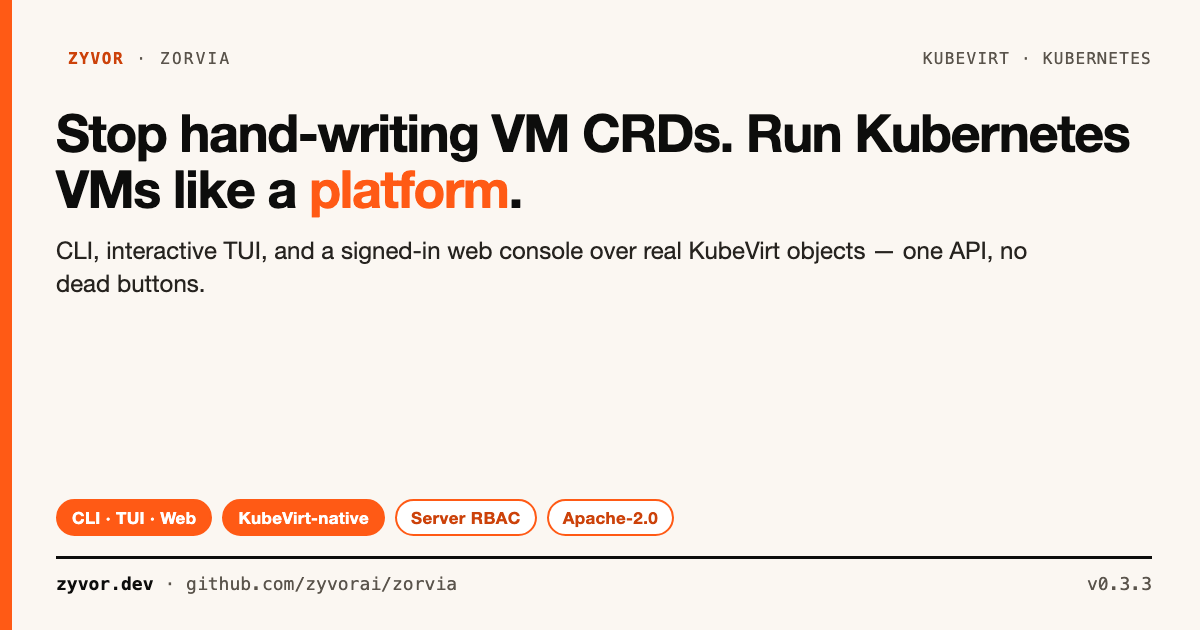
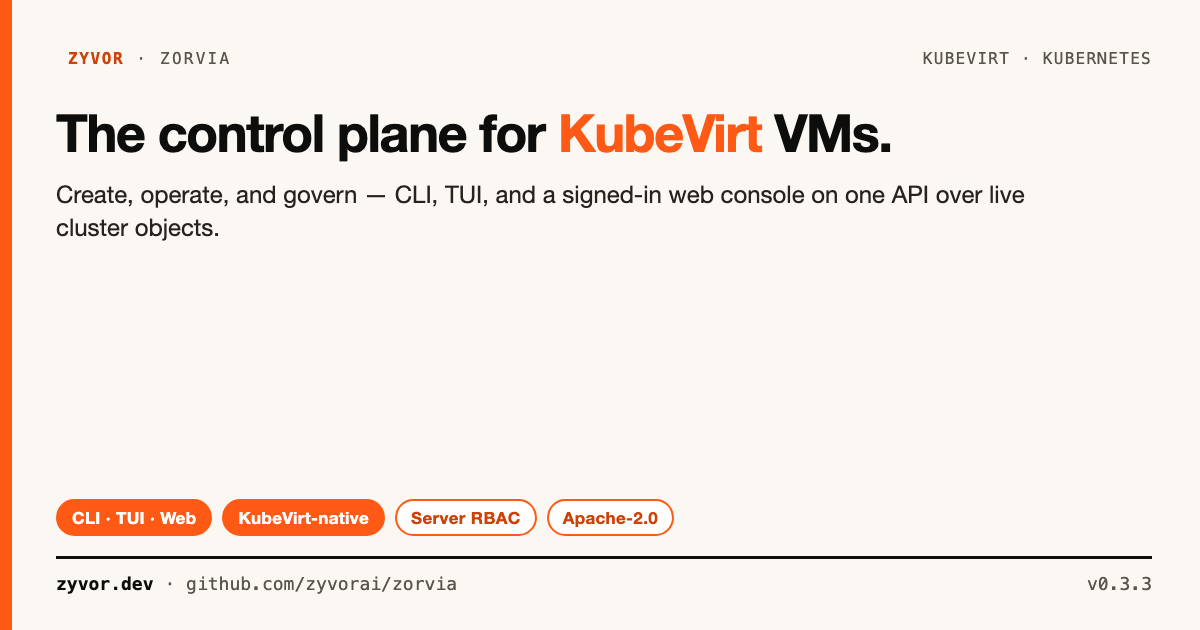
docs: refresh Zorvia tagline to KubeVirt control plane
Replace the YAML/CRD rant with a sharper product line across README, social cards, and the docs site hero.

Changed region(s): [[0.0308, 0.181, 0.9558, 0.4825]]

diff --git a/website/src/pages/index.tsx b/website/src/pages/index.tsx
@@ -15,17 +15,17 @@ function HomepageHeader() {
       <div className="container">
         <div className={clsx(styles.heroText, 'text--center')}>
           <Heading as="h1" className="hero__title">
-            Run Kubernetes VMs
+            The control plane
             <br />
-            like a platform.
+            for KubeVirt VMs.
           </Heading>
           <p className="hero__subtitle">
-            Every KubeVirt shop ends up with the same pile of one-off
-            scripts for create, snapshot, migrate, backup, and access
-            control. Zorvia replaces that pile with one real backend — CLI,
-            interactive TUI, and a signed-in web console, all driving the
-            same API, all wired to real Kubernetes objects underneath. No
-            fake dashboards, no dead buttons.
+            Create, operate, and govern Kubernetes VMs end to end — CLI,
+            interactive TUI, and a signed-in web console on one API.
+            Templates and profiles to ship, hotplug and live migrate to run,
+            console/VNC/SSH to reach the guest, RBAC and quotas to stay safe,
+            audit export to prove who did what. Every action hits live
+            cluster objects.
           </p>
           <div className={styles.buttons}>
             <Link
@@ -63,20 +63,18 @@ function ProblemStatement() {
         <div className="row">
           <div className="col col--8 col--offset-2 text--center">
             <Heading as="h2" className={styles.sectionHeading}>
-              Stop hand-writing VM CRDs
+              KubeVirt runs the VMs. Zorvia runs the platform.
             </Heading>
             <p>
               KubeVirt gives you the primitives — VirtualMachine,
-              VirtualMachineInstance, DataVolume — but not an operator
-              experience. Teams end up writing their own scripts for the
-              same handful of operations, over and over, with no shared
-              backend and no consistent access control.
+              VirtualMachineInstance, DataVolume. Zorvia gives you the
+              operator surface: shared auth, day-2 lifecycle, guest access,
+              guardrails, and audit on top of those same objects.
             </p>
             <p>
-              Zorvia is that backend: one real API behind the CLI, the
-              interactive TUI, and the web console, all reading and
-              writing real Kubernetes objects — not a parallel state store
-              that can drift from the cluster.
+              One real API behind the CLI, the interactive TUI, and the web
+              console — reading and writing live cluster state, not a
+              parallel store that can drift from the cluster.
             </p>
           </div>
         </div>

diff --git a/docs/social/zorvia-social-card.html b/docs/social/zorvia-social-card.html
@@ -93,13 +93,13 @@
     <span class="r">KubeVirt VM platform</span>
   </div>
 
-  <h1>One real backend. CLI, TUI, and web — over <em>actual</em> Kubernetes VMs.</h1>
-  <p class="sub">Create, day-2 ops, guest access, guardrails, and audit — without the YAML pile or dead dashboards.</p>
+  <h1>Create. Operate. Govern. One control plane for <em>KubeVirt</em>.</h1>
+  <p class="sub">Templates to audit trail — CLI, TUI, and a signed-in console driving the same API over live cluster objects.</p>
 
   <div class="flow">
     <div class="step k"><span class="lane">CREATE</span><span class="n">1</span>
       <h3>Templates &amp; profiles</h3>
-      <p>43 OS templates and workload profiles size VMs without hand-written CRDs.</p></div>
+      <p>43 OS templates and workload profiles size and ship VMs in one shot.</p></div>
     <div class="step a"><span class="lane">DAY-2</span><span class="n">2</span>
       <h3>Hotplug &amp; migrate</h3>
       <p>CPU/memory/disk/NIC hotplug, live migration, snapshots, and disk resize — for real.</p></div>

diff --git a/docs/social/zorvia-share-card.html b/docs/social/zorvia-share-card.html
@@ -62,8 +62,8 @@
     <span class="r">KubeVirt &middot; Kubernetes</span>
   </div>
 
-  <h1>Stop hand-writing VM CRDs. Run Kubernetes VMs like a <em>platform</em>.</h1>
-  <p class="sub">CLI, interactive TUI, and a signed-in web console over real KubeVirt objects — one API, no dead buttons.</p>
+  <h1>The control plane for <em>KubeVirt</em> VMs.</h1>
+  <p class="sub">Create, operate, and govern — CLI, TUI, and a signed-in web console on one API over live cluster objects.</p>
 
   <div class="chips">
     <span class="chip">CLI · TUI · Web</span>

diff --git a/website/docusaurus.config.ts b/website/docusaurus.config.ts
@@ -4,7 +4,7 @@ import type * as Preset from '@docusaurus/preset-classic';
 
 const config: Config = {
   title: 'Zorvia',
-  tagline: 'Run Kubernetes VMs like a platform, not a YAML pile — CLI, TUI, and web console over real KubeVirt objects.',
+  tagline: 'The control plane for KubeVirt VMs — create, operate, and govern from CLI, TUI, and web.',
   favicon: 'img/favicon.svg',
 
   future: {

diff --git a/README.md b/README.md
@@ -8,9 +8,9 @@
 
 ![Zorvia — KubeVirt VM platform](docs/social/zorvia-share-card.png)
 
-**Stop hand-writing VM CRDs. Run Kubernetes VMs like a platform, not a YAML pile.**
+**The control plane for KubeVirt VMs.**
 
-Every KubeVirt shop ends up with the same pile of one-off scripts for create, snapshot, migrate, backup, and access control. Zorvia replaces that pile with one real backend — CLI, interactive TUI, and a signed-in web console — all driving the same API over real Kubernetes objects. No fake dashboards, no dead buttons.
+Zorvia is how you create, operate, and govern Kubernetes VMs end to end — CLI, interactive TUI, and a signed-in web console on one API. Templates and profiles to ship, hotplug and live migrate to run, console/VNC/SSH to reach the guest, RBAC and quotas to stay safe, audit export to prove who did what. Every action hits live cluster objects.
 
 [Try it now](#quick-start) · [Talk to sales](mailto:sales@zyvor.dev) · [Star on GitHub](https://github.com/zyvorai/zorvia) · [Docs](https://zyvorai.github.io/zorvia/) · [Changelog](CHANGELOG.md)
 
@@ -98,19 +98,15 @@ open https://<HOST>:30152/app
 
 ## Why teams pick Zorvia
 
-Running VMs on KubeVirt works — *managing* them at scale is where teams get
-stuck. You end up maintaining a spreadsheet of hand-written `VirtualMachine`
-YAML, a Slack thread for "who can restart prod-db," a cron job that may or
-may not still be doing backups, and a dashboard nobody trusts because half
-its buttons don't actually do anything.
+KubeVirt is excellent at running VMs. The missing piece is the control plane
+around them: who can create what, how you hotplug and migrate without
+downtime, how you reach the guest, and how you prove who did what.
 
-Zorvia is what that stack should have been from day one: **one real backend**
-behind a CLI, a TUI, and a web console, all driving actual Kubernetes objects
-— `ResourceQuota`, `NetworkPolicy`, `VirtualMachineSnapshot`, real Node
-capacity, real KubeVirt migration phases. If a page shows a number, that
-number came from the cluster. If a button says it does something, it does
-it. That discipline is why the platform surface below can grow every release
-without turning into the pile of dead mockups it replaced.
+Zorvia is that control plane — **one real backend** behind a CLI, a TUI, and
+a web console, all driving actual Kubernetes objects (`ResourceQuota`,
+`NetworkPolicy`, `VirtualMachineSnapshot`, real Node capacity, real KubeVirt
+migration phases). If a page shows a number, it came from the cluster. If a
+button says it does something, it does it.
 
 Try it in five minutes with the quickstart below, or [talk to us](#get-involved)
 about running it in production.
@@ -119,7 +115,7 @@ about running it in production.
 
 | Need | Zorvia |
 |------|--------|
-| Skip hand-written VM CRDs | **43** named OS templates |
+| Ship without custom CRDs | **43** named OS templates |
 | Size by workload | **8** resource profiles (apply via `--cpus` / `--memory` / `--disk-size`, or blueprints) |
 | Ship a stack | **5** blueprints (LAMP, 3-tier, k8s-cluster, CI/CD, dev-stack) |
 | Browser ops | Web console — create, power, console, expose, snapshots |

diff --git a/CHANGELOG.md b/CHANGELOG.md
@@ -10,6 +10,7 @@ and this project adheres to [Semantic Versioning](https://semver.org/spec/v2.0.0
 ### Added
 
 - **Social / README share cards** — rebuildable HTML → PNG/JPG under [`docs/social/`](docs/social/README.md) (`zorvia-share-card.png` for README hero + docs Open Graph; `zorvia-social-card.jpg` for LinkedIn/X). Website serves `../docs/social` and sets `themeConfig.image`.
+- **Positioning refresh** — tagline and about copy centered on “the control plane for KubeVirt VMs” (README, docs site hero, social cards).
 - **Secure OIDC (Beta)** — opt-in with `ZORVIA_OIDC_ENABLED=1`: OpenID discovery, PKCE S256, authorization-code token exchange, JWKS-verified `id_token` (iss/aud/nonce/exp), JIT local user (`oidc:<sub>`), then mint a normal Zorvia JWT with `token_version` revocation. Docs: [docs/OIDC.md](docs/OIDC.md).
 - **Phase 5 enterprise plan APIs** — gated by `ZORVIA_EXPERIMENTAL=1` + `ZORVIA_FEATURE_*`: S3 immutable backup, Transiva, golden pipeline, cross-cluster DR, GPU/NUMA placement, fleet inventory (`/api/v1/enterprise/...`). Dry-run plans only; admin RBAC required. Docs: [docs/PHASE5_ENTERPRISE.md](docs/PHASE5_ENTERPRISE.md).
 - **Expanded GitHub CI** — Helm lint/template, ShellCheck, actionlint, Hadolint, typos, kubeconform, CodeQL, Scorecard, Trivy, Semgrep, coverage, MSRV, nightly, rustdoc, feature matrix, Docker on PRs, dependency-review, PR labeler/stale/title lint, lockfile checks, license/docs gates, security-secret scan, web/website dedicated workflows.
